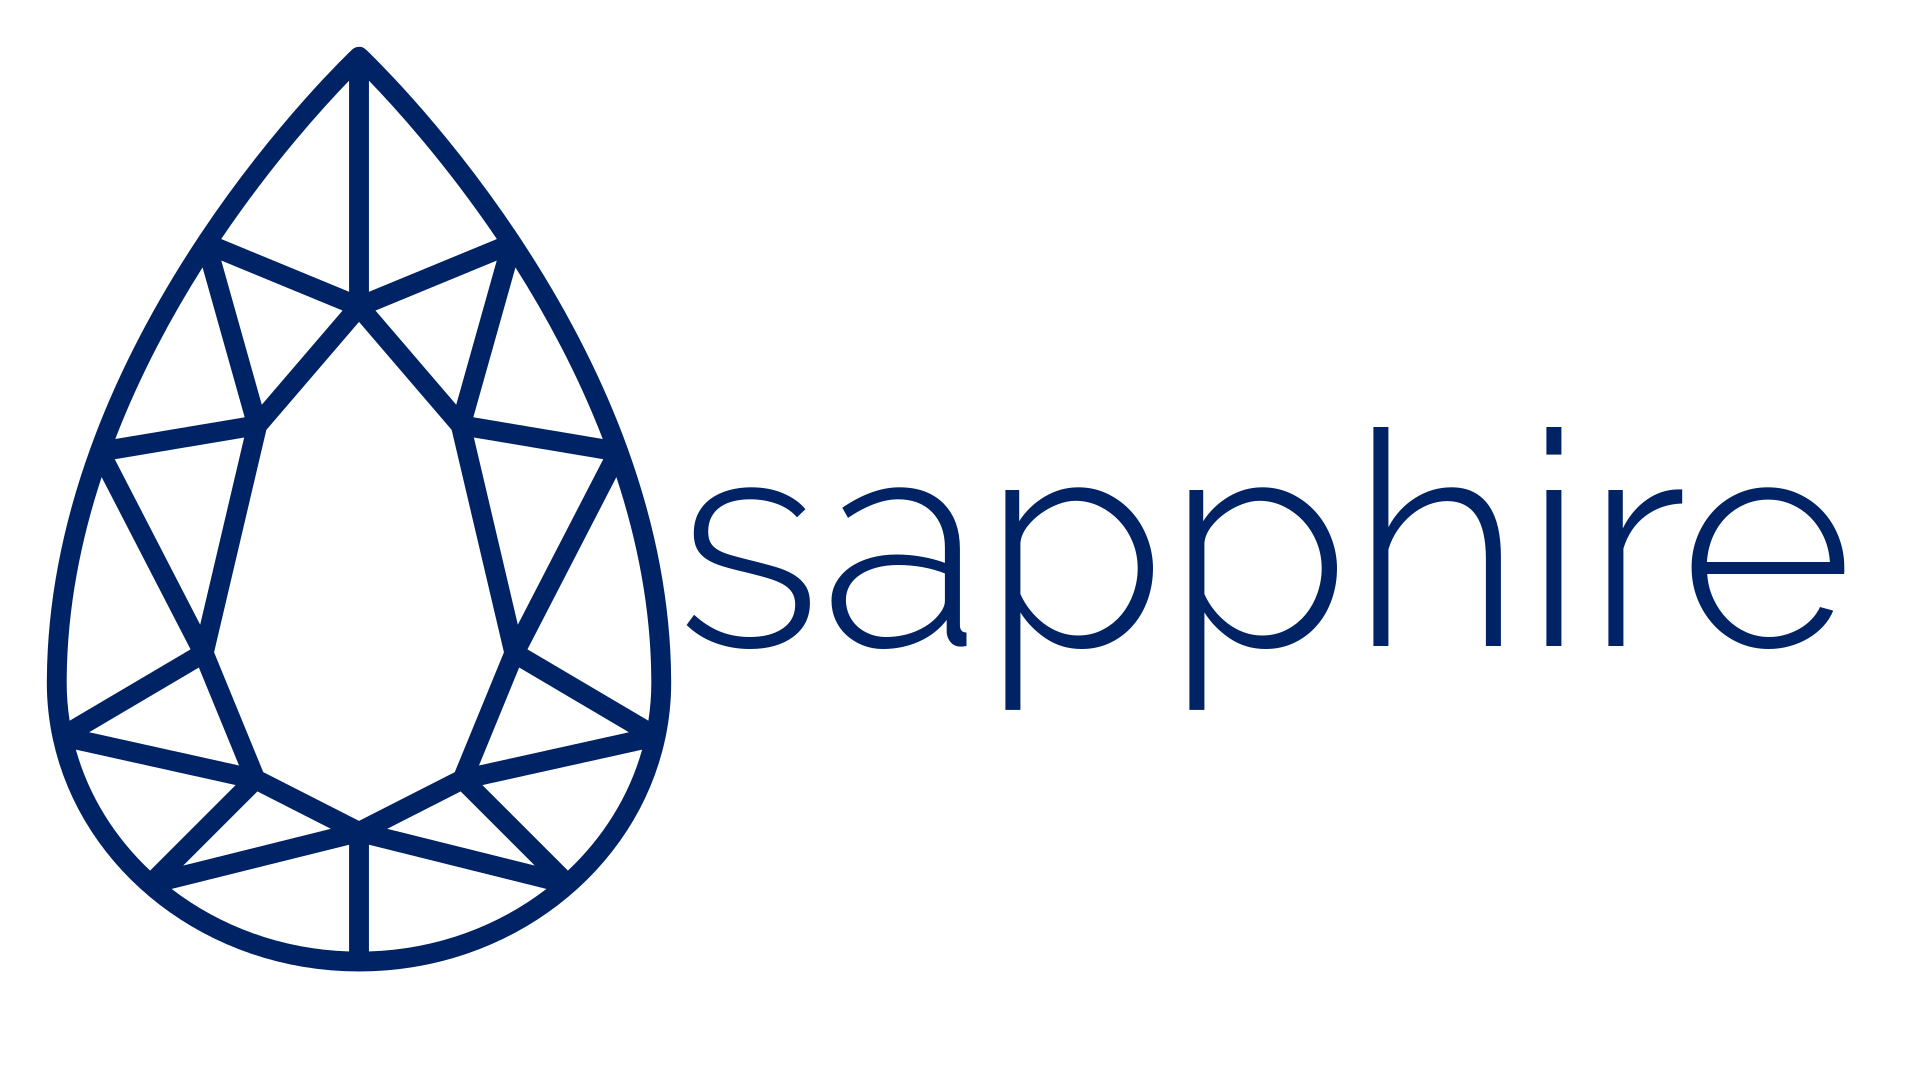
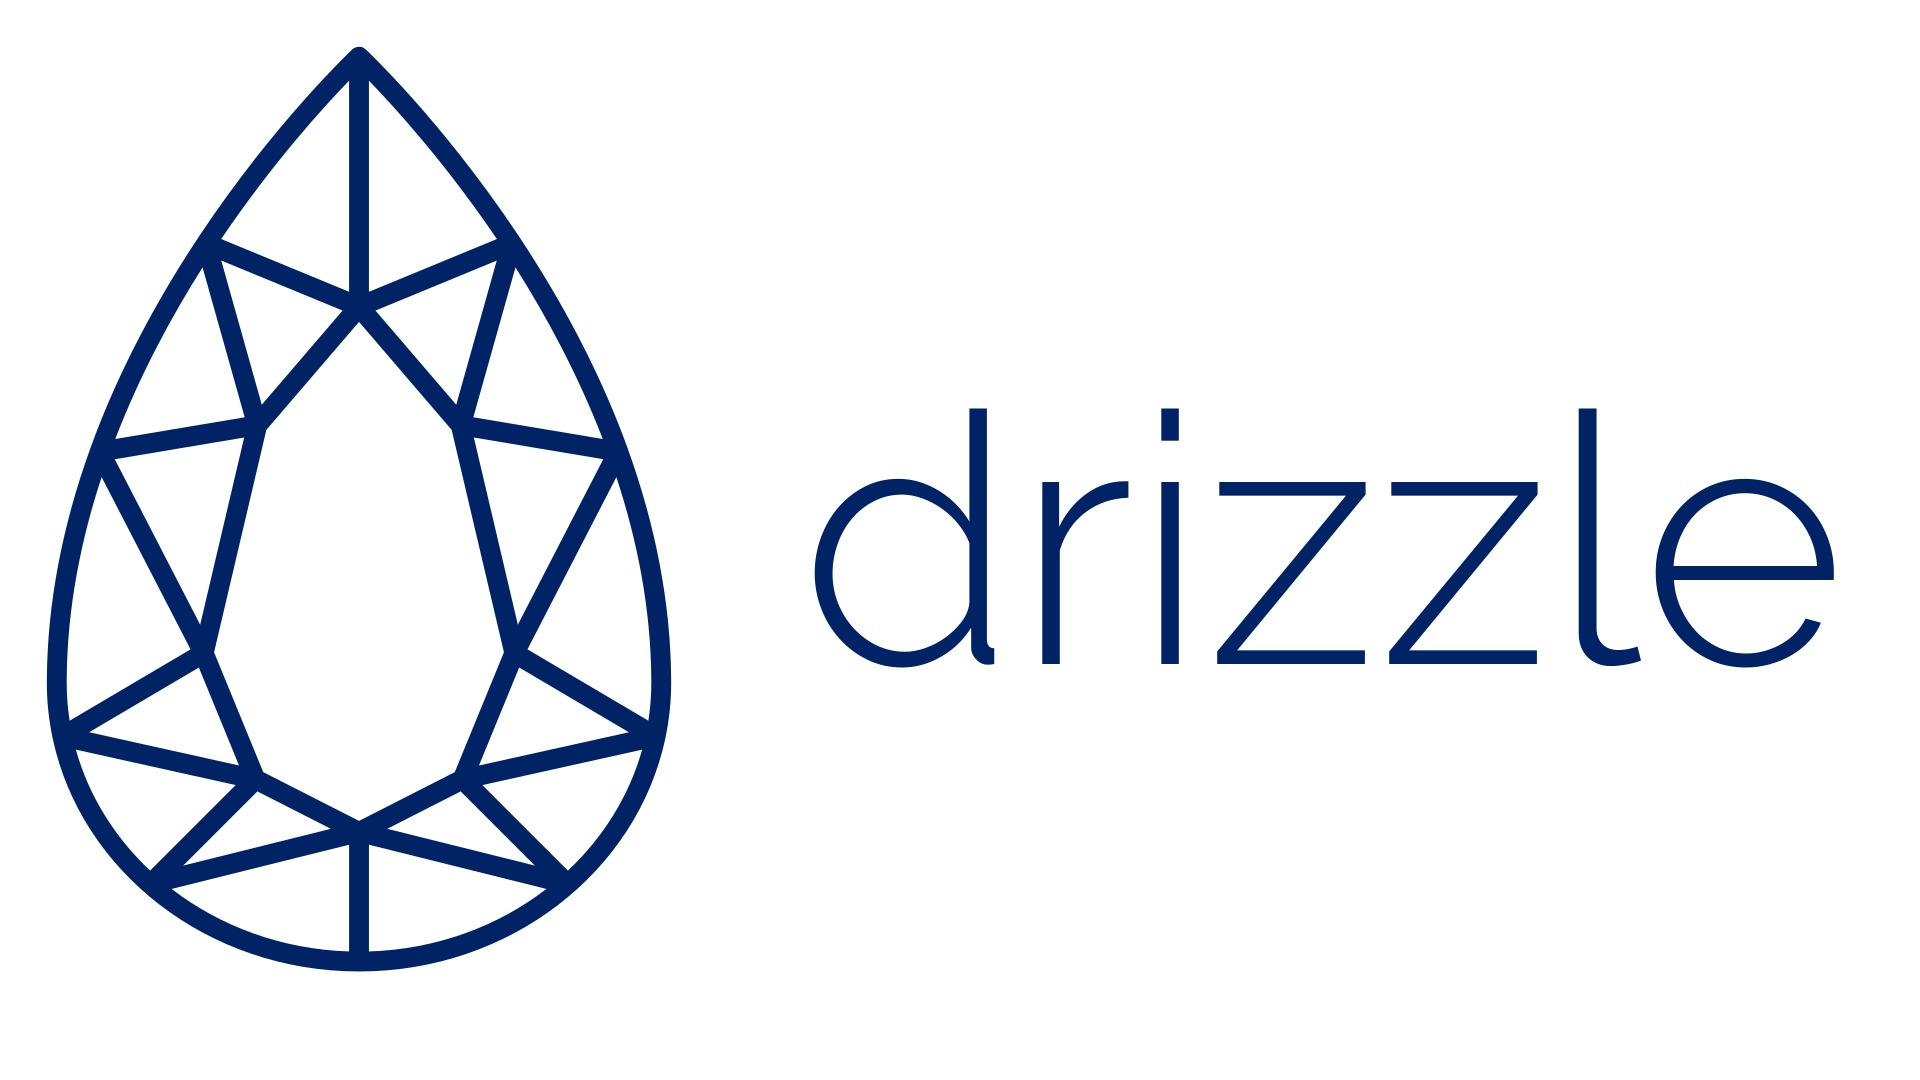
Name change from Sapphire to Drizzle

Changed region(s): [[0.3438, 0.3667, 0.9688, 0.6722]]

diff --git a/README.md b/README.md
@@ -1,38 +1,51 @@
-# ![sapphire logo banner first draft](./img/banner.png)
+# ![drizzle banner](./img/banner.png)
 
-Sapphire is my very own programming language, simultaneously developed as a language I would like to use and a never-ending source of things to learn.
+Drizzle is my very own programming language, simultaneously developed as a language I would like to use and a never-ending source of things to learn.
+
+## Name
+This project was originally called *Sapphire*.
+I decided to make an organisation for this project as it would surely consist of multiple projects and I really enjoy having projects grouped into Organisations.
+
+However, when I tried to do so, I found that `sapphire` and `sapphire-lang` were both taken in terms of names, and there were a few programming language projects named *Sapphire* on GitHub.
+So I felt I needed to change the name.
+
+Being a fan of Pokémon, my first thought was *Kyogre*, the legendary from Pokémon Sapphire.
+From there I thought of his ability *Drizzle*, which I thought was a nice name for my language considering I also love rain, so there you go!
+
+(Also I already had made stickers of the logo so I had to stick with blue and stuff >.>)
 
 ## Goals
 The goals of the project are (in some particular order):
 - Create a language with a nice syntax that I would like to use.
 - Constantly learn ways to improve the language.
 - Learn about the kind of work that goes into developing production grade languages.
-- Eventually get Sapphire to the point where it can interpret / compile itself.
+- Eventually get Drizzle to the point where it can interpret / compile itself.
 
 ## Project Details
 - Written in Crystal.
-    - Sapphire will work off of Crystal's GC.
-    - If we decide to write the interpreter in Sapphire later, we'll then have to implement out own GC.
+    - Drizzle will work off of Crystal's GC.
+    - If we decide to write the interpreter in Drizzle later, we'll then have to implement out own GC.
 - Parser (will eventually be) generated using [ANTLR](http://www.antlr.org/) for Go and translated into Crystal (like the books I'll be using).
 - Language will initially be interpreted, then will be compiled.
     - When the compiled version starts, the interpreted version will be archived to a protected branch.
-- When language is mature enough, rewrite the interpreter, and later the compiler, in Sapphire.
+- When language is mature enough, rewrite the interpreter, and later the compiler, in Drizzle.
 
 ## Extensions
 Some basic extensions that I would like to see built in to the language itself;
-- `sapphire docs`: Similar to how crystal generates documentation I would like to have Sapphire being able to parse code and generate doc pages
-- `sapphire fmt`: Similar to tools like `gofmt` or `crystal tool format`, I would like it for Sapphire to have a built-in formatter (once we have a style guide in place)
-- `sapphire deps`: When the language starts to grow, we would need to have some kind of dependency manager built in.
+- `drizzle docs`: Similar to how crystal generates documentation I would like to have Drizzle being able to parse code and generate doc pages
+- `drizzle fmt`: Similar to tools like `gofmt` or `crystal tool format`, I would like it for Drizzle to have a built-in formatter (once we have a style guide in place)
+- `drizzle deps`: When the language starts to grow, we would need to have some kind of dependency manager built in.
+    - Since the name change to `drizzle`, I'm thinking maybe calling deps `drops`?
 
 ## Roadmap
 Here's a basic roadmap for anyone who is interested in what's going on with this project;
 - Write a basic (non-production) version of the interpreter in Crystal, using the [interpreter book](https://interpreterbook.com).
 - Research and learn ANTLR4 and use it to generate a better parser.
     - ANTLR cannot generate Crystal code so instead I intend to have it generate Go code and translate it, like I am doing with the book.
-- Once the [compiler book](https://compilerbook.com) is released, go through that and turn Sapphire into a compiled language.
-- Get Sapphire to the point where it can replace it's Crystal interpreter.
-- Get Sapphire to the point where it can replace it's Crystal compiler.
-- Start trying to add on the extra Sapphire tools.
+- Once the [compiler book](https://compilerbook.com) is released, go through that and turn Drizzle into a compiled language.
+- Get Drizzle to the point where it can replace it's Crystal interpreter.
+- Get Drizzle to the point where it can replace it's Crystal compiler.
+- Start trying to add on the extra Drizzle tools.
 - Keep improving stuff.
 
 ## Contributing
